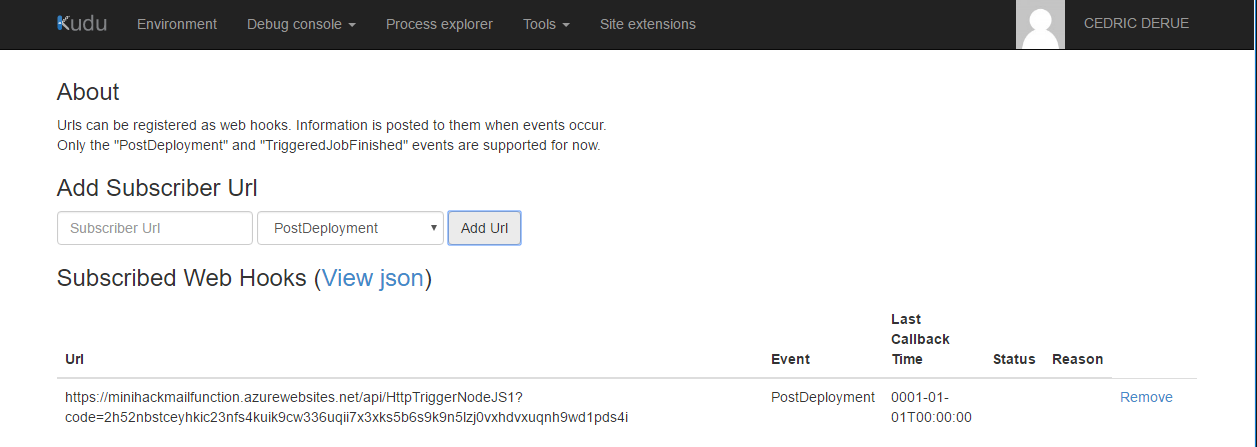
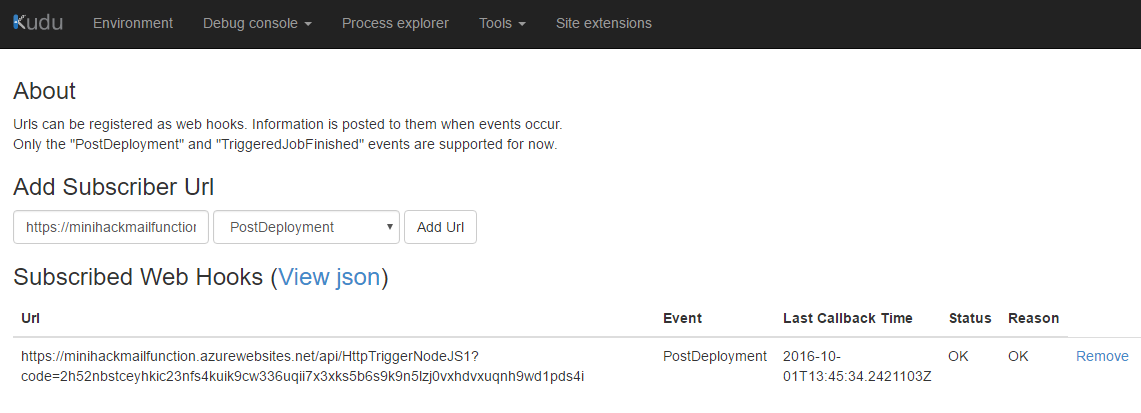
update content

diff --git a/AzureAppService/README.md b/AzureAppService/README.md
@@ -306,11 +306,13 @@ Pour initialiser un nouveau service avec Azure Functions :
 ```javascript
 module.exports = function(context, req) {
     var apiKey = "<Insérer la clé d'API SendGrid>";
+    var mailFrom = "noreply@azurefunctions.com";
     var mailTo = "<Insérer votre email>";
     var helper = require('sendgrid').mail;
     var from_email = new helper.Email(mailTo);
     var to_email = new helper.Email(mailTo);
-    var subject = 'Hello World from the SendGrid Node.js Library!';
+    var subject = "Azure deployment";
+    var message = body.message;
     var content = new helper.Content('text/plain', 'Hello, Email!');
     var mail = new helper.Mail(from_email, subject, to_email, content);
 
@@ -360,7 +362,7 @@ $ cd home\wwwroot
   "version": "1.0.0",
   "private": true,
   "dependencies": {
-   "sendgrid": "^1.9.2"
+   "sendgrid": "^4.3.1"
   }
 }
 ```
@@ -377,7 +379,15 @@ $ npm install
 
 ## 4.5) Créer un webhook vers le service d'envoi d'email
 
-Pour accéder à la console Kudu,
+Pour appeler notre fonction Azure après chaque déploiement de l'application Symfony sur Azure, il es nécessaire de créer un Web Hook.
+Pour faire nous allons nous connecter à la console Kudu de l'application web Azure créée dans la section 2 :
+- Connectez-vous à l'adresse https://minihacksymfony.scm.azurewebsites.net/DebugConsole
+- Dans le menu principal, cliquez sur __Tools > Web hooks__
+- Dans le champ de saisie __Subscriber URL__, copiez-collez l'URL de la fonction Azure d'envoi d'emails
+- Sélectionnez __Post Deployment__
+- Cliquez sur __Add URL__ pour valider l'ajout du web hook
+
+*Une nouvelle URL apparaît maintenant dans la liste des web hooks.*
 
 ![Azure Functions](Screenshots/KuduWebhook.png)
 
@@ -391,7 +401,7 @@ Pour cela nous allons modifier le code source de l'application Symfony créée e
 
 ```html
 <div id="welcome">
-    <h1><span>Welcome to</span> Symfony on Azure {{ constant('Symfony\\Component\\HttpKernel\\Kernel::VERSION') }}</h1>
+    <h1><span>Welcome to</span> Symfony on <span style="color:#00BCF2">Azure</span> {{ constant('Symfony\\Component\\HttpKernel\\Kernel::VERSION') }}</h1>
 </div>
 ```
 
@@ -409,6 +419,8 @@ Le déploiement prend quelques secondes. Une fois celui-ci terminé, nous devons
 
 - La réception d'un email indiquant le fin du déploiement de l'application
 
+![Symfony](Screenshots/KuduWebhook2.png)
+
 - L'affichage du titre "Welcome to Symfony on Azure" après rafraichissement de l'application web Azure dans le navigateur
 
 ![Symfony](Screenshots/SymfonyAzureFinal.png)
@@ -418,4 +430,8 @@ C'est terminé ! Pensez à valider votre mini-hack, il y a des cadeaux à gagner
 ## Pour aller plus loin
 
 Ces parties sont optionnelles dans le cadre du mini-hack, mais voici quelques idées pour aller plus loin :
+
+- [Ajouter une base de données MySQL avec MySQL In App](MySQL in-app/README.md)
+- [Personnaliser le déploiement d'une application web Azure avec Kudu](https://azure.microsoft.com/en-us/documentation/videos/custom-web-site-deployment-scripts-with-kudu/)
+
 
